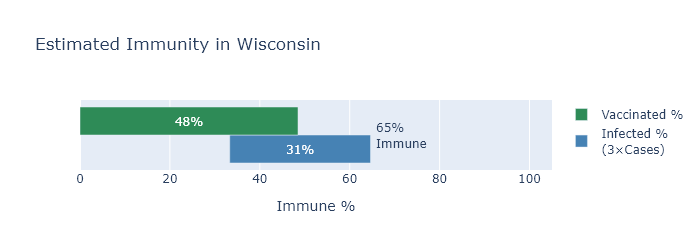
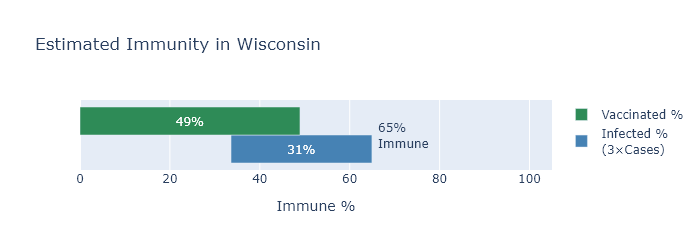
Immunity plot update

diff --git a/docs/assets/plotly/Immune-Age.html b/docs/assets/plotly/Immune-Age.html
@@ -2,6 +2,6 @@
 <head><meta charset="utf-8" /></head>
 <body>
     <div>                        <script type="text/javascript">window.PlotlyConfig = {MathJaxConfig: 'local'};</script>
-        <script src="https://cdn.plot.ly/plotly-latest.min.js"></script>                <div id="4da12900-6f28-47b1-b98f-599c25519c23" class="plotly-graph-div" style="height:550px; width:700px;"></div>            <script type="text/javascript">                                    window.PLOTLYENV=window.PLOTLYENV || {};                                    if (document.getElementById("4da12900-6f28-47b1-b98f-599c25519c23")) {                    Plotly.newPlot(                        "4da12900-6f28-47b1-b98f-599c25519c23",                        [{"alignmentgroup": "True", "base": [63.06226586288352, 45.5613222907172, 34.57848937700928, 32.96872672807596, 26.510146671164605, 20.641946858303825, 7.452176293761197], "hovertemplate": "=Est Infected %<br>Base=%{base}<br>Immune %=%{x}<br>Age group=%{y}<br>Label=%{text}<extra></extra>", "insidetextanchor": "middle", "legendgroup": "Est Infected %", "marker": {"color": "steelblue"}, "name": "Infected %<br>(3&times;Cases)", "offsetgroup": "Est Infected %", "orientation": "h", "showlegend": true, "text": ["24%", "31%", "37%", "38%", "41%", "47%", "18%"], "textposition": "inside", "type": "bar", "x": [24.324538972601125, 30.626133475668563, 36.86620056082848, 37.795827757839746, 41.143066396316364, 47.3054068419107, 17.973471836582206], "xaxis": "x", "y": ["65+", "55-64", "45-54", "35-44", "25-34", "18-24", "<18"], "yaxis": "y"}, {"alignmentgroup": "True", "base": [0.0, 0.0, 0.0, 0.0, 0.0, 0.0, 0.0], "hovertemplate": "=Vaccinated %<br>Base=%{base}<br>Immune %=%{x}<br>Age group=%{y}<br>Label=%{text}<extra></extra>", "insidetextanchor": "middle", "legendgroup": "Vaccinated %", "marker": {"color": "seagreen"}, "name": "Vaccinated %", "offsetgroup": "Vaccinated %", "orientation": "h", "showlegend": true, "text": ["83%", "66%", "55%", "53%", "45%", "39%", "9%"], "textposition": "inside", "type": "bar", "x": [83.3325162565595, 65.67505110117729, 54.77017015319209, 53.00082862565716, 45.04167147013149, 39.172798614035834, 9.08508071792891], "xaxis": "x", "y": ["65+", "55-64", "45-54", "35-44", "25-34", "18-24", "<18"], "yaxis": "y"}],                        {"annotations": [{"align": "left", "showarrow": false, "text": "25%<br>Immune", "x": 32.425648130343404, "y": "<18"}, {"align": "left", "showarrow": false, "text": "68%<br>Immune", "x": 74.94735370021453, "y": "18-24"}, {"align": "left", "showarrow": false, "text": "68%<br>Immune", "x": 74.65321306748098, "y": "25-34"}, {"align": "left", "showarrow": false, "text": "71%<br>Immune", "x": 77.7645544859157, "y": "35-44"}, {"align": "left", "showarrow": false, "text": "71%<br>Immune", "x": 78.44468993783775, "y": "45-54"}, {"align": "left", "showarrow": false, "text": "76%<br>Immune", "x": 83.18745576638577, "y": "55-64"}, {"align": "left", "showarrow": false, "text": "87%<br>Immune", "x": 94.38680483548464, "y": "65+"}], "barmode": "group", "height": 550, "legend": {"title": {"text": ""}, "tracegroupgap": 0, "traceorder": "reversed"}, "showlegend": true, "template": {"data": {"bar": [{"error_x": {"color": "#2a3f5f"}, "error_y": {"color": "#2a3f5f"}, "marker": {"line": {"color": "#E5ECF6", "width": 0.5}}, "type": "bar"}], "barpolar": [{"marker": {"line": {"color": "#E5ECF6", "width": 0.5}}, "type": "barpolar"}], "carpet": [{"aaxis": {"endlinecolor": "#2a3f5f", "gridcolor": "white", "linecolor": "white", "minorgridcolor": "white", "startlinecolor": "#2a3f5f"}, "baxis": {"endlinecolor": "#2a3f5f", "gridcolor": "white", "linecolor": "white", "minorgridcolor": "white", "startlinecolor": "#2a3f5f"}, "type": "carpet"}], "choropleth": [{"colorbar": {"outlinewidth": 0, "ticks": ""}, "type": "choropleth"}], "contour": [{"colorbar": {"outlinewidth": 0, "ticks": ""}, "colorscale": [[0.0, "#0d0887"], [0.1111111111111111, "#46039f"], [0.2222222222222222, "#7201a8"], [0.3333333333333333, "#9c179e"], [0.4444444444444444, "#bd3786"], [0.5555555555555556, "#d8576b"], [0.6666666666666666, "#ed7953"], [0.7777777777777778, "#fb9f3a"], [0.8888888888888888, "#fdca26"], [1.0, "#f0f921"]], "type": "contour"}], "contourcarpet": [{"colorbar": {"outlinewidth": 0, "ticks": ""}, "type": "contourcarpet"}], "heatmap": [{"colorbar": {"outlinewidth": 0, "ticks": ""}, "colorscale": [[0.0, "#0d0887"], [0.1111111111111111, "#46039f"], [0.2222222222222222, "#7201a8"], [0.3333333333333333, "#9c179e"], [0.4444444444444444, "#bd3786"], [0.5555555555555556, "#d8576b"], [0.6666666666666666, "#ed7953"], [0.7777777777777778, "#fb9f3a"], [0.8888888888888888, "#fdca26"], [1.0, "#f0f921"]], "type": "heatmap"}], "heatmapgl": [{"colorbar": {"outlinewidth": 0, "ticks": ""}, "colorscale": [[0.0, "#0d0887"], [0.1111111111111111, "#46039f"], [0.2222222222222222, "#7201a8"], [0.3333333333333333, "#9c179e"], [0.4444444444444444, "#bd3786"], [0.5555555555555556, "#d8576b"], [0.6666666666666666, "#ed7953"], [0.7777777777777778, "#fb9f3a"], [0.8888888888888888, "#fdca26"], [1.0, "#f0f921"]], "type": "heatmapgl"}], "histogram": [{"marker": {"colorbar": {"outlinewidth": 0, "ticks": ""}}, "type": "histogram"}], "histogram2d": [{"colorbar": {"outlinewidth": 0, "ticks": ""}, "colorscale": [[0.0, "#0d0887"], [0.1111111111111111, "#46039f"], [0.2222222222222222, "#7201a8"], [0.3333333333333333, "#9c179e"], [0.4444444444444444, "#bd3786"], [0.5555555555555556, "#d8576b"], [0.6666666666666666, "#ed7953"], [0.7777777777777778, "#fb9f3a"], [0.8888888888888888, "#fdca26"], [1.0, "#f0f921"]], "type": "histogram2d"}], "histogram2dcontour": [{"colorbar": {"outlinewidth": 0, "ticks": ""}, "colorscale": [[0.0, "#0d0887"], [0.1111111111111111, "#46039f"], [0.2222222222222222, "#7201a8"], [0.3333333333333333, "#9c179e"], [0.4444444444444444, "#bd3786"], [0.5555555555555556, "#d8576b"], [0.6666666666666666, "#ed7953"], [0.7777777777777778, "#fb9f3a"], [0.8888888888888888, "#fdca26"], [1.0, "#f0f921"]], "type": "histogram2dcontour"}], "mesh3d": [{"colorbar": {"outlinewidth": 0, "ticks": ""}, "type": "mesh3d"}], "parcoords": [{"line": {"colorbar": {"outlinewidth": 0, "ticks": ""}}, "type": "parcoords"}], "pie": [{"automargin": true, "type": "pie"}], "scatter": [{"marker": {"colorbar": {"outlinewidth": 0, "ticks": ""}}, "type": "scatter"}], "scatter3d": [{"line": {"colorbar": {"outlinewidth": 0, "ticks": ""}}, "marker": {"colorbar": {"outlinewidth": 0, "ticks": ""}}, "type": "scatter3d"}], "scattercarpet": [{"marker": {"colorbar": {"outlinewidth": 0, "ticks": ""}}, "type": "scattercarpet"}], "scattergeo": [{"marker": {"colorbar": {"outlinewidth": 0, "ticks": ""}}, "type": "scattergeo"}], "scattergl": [{"marker": {"colorbar": {"outlinewidth": 0, "ticks": ""}}, "type": "scattergl"}], "scattermapbox": [{"marker": {"colorbar": {"outlinewidth": 0, "ticks": ""}}, "type": "scattermapbox"}], "scatterpolar": [{"marker": {"colorbar": {"outlinewidth": 0, "ticks": ""}}, "type": "scatterpolar"}], "scatterpolargl": [{"marker": {"colorbar": {"outlinewidth": 0, "ticks": ""}}, "type": "scatterpolargl"}], "scatterternary": [{"marker": {"colorbar": {"outlinewidth": 0, "ticks": ""}}, "type": "scatterternary"}], "surface": [{"colorbar": {"outlinewidth": 0, "ticks": ""}, "colorscale": [[0.0, "#0d0887"], [0.1111111111111111, "#46039f"], [0.2222222222222222, "#7201a8"], [0.3333333333333333, "#9c179e"], [0.4444444444444444, "#bd3786"], [0.5555555555555556, "#d8576b"], [0.6666666666666666, "#ed7953"], [0.7777777777777778, "#fb9f3a"], [0.8888888888888888, "#fdca26"], [1.0, "#f0f921"]], "type": "surface"}], "table": [{"cells": {"fill": {"color": "#EBF0F8"}, "line": {"color": "white"}}, "header": {"fill": {"color": "#C8D4E3"}, "line": {"color": "white"}}, "type": "table"}]}, "layout": {"annotationdefaults": {"arrowcolor": "#2a3f5f", "arrowhead": 0, "arrowwidth": 1}, "coloraxis": {"colorbar": {"outlinewidth": 0, "ticks": ""}}, "colorscale": {"diverging": [[0, "#8e0152"], [0.1, "#c51b7d"], [0.2, "#de77ae"], [0.3, "#f1b6da"], [0.4, "#fde0ef"], [0.5, "#f7f7f7"], [0.6, "#e6f5d0"], [0.7, "#b8e186"], [0.8, "#7fbc41"], [0.9, "#4d9221"], [1, "#276419"]], "sequential": [[0.0, "#0d0887"], [0.1111111111111111, "#46039f"], [0.2222222222222222, "#7201a8"], [0.3333333333333333, "#9c179e"], [0.4444444444444444, "#bd3786"], [0.5555555555555556, "#d8576b"], [0.6666666666666666, "#ed7953"], [0.7777777777777778, "#fb9f3a"], [0.8888888888888888, "#fdca26"], [1.0, "#f0f921"]], "sequentialminus": [[0.0, "#0d0887"], [0.1111111111111111, "#46039f"], [0.2222222222222222, "#7201a8"], [0.3333333333333333, "#9c179e"], [0.4444444444444444, "#bd3786"], [0.5555555555555556, "#d8576b"], [0.6666666666666666, "#ed7953"], [0.7777777777777778, "#fb9f3a"], [0.8888888888888888, "#fdca26"], [1.0, "#f0f921"]]}, "colorway": ["#636efa", "#EF553B", "#00cc96", "#ab63fa", "#FFA15A", "#19d3f3", "#FF6692", "#B6E880", "#FF97FF", "#FECB52"], "font": {"color": "#2a3f5f"}, "geo": {"bgcolor": "white", "lakecolor": "white", "landcolor": "#E5ECF6", "showlakes": true, "showland": true, "subunitcolor": "white"}, "hoverlabel": {"align": "left"}, "hovermode": "closest", "mapbox": {"style": "light"}, "paper_bgcolor": "white", "plot_bgcolor": "#E5ECF6", "polar": {"angularaxis": {"gridcolor": "white", "linecolor": "white", "ticks": ""}, "bgcolor": "#E5ECF6", "radialaxis": {"gridcolor": "white", "linecolor": "white", "ticks": ""}}, "scene": {"xaxis": {"backgroundcolor": "#E5ECF6", "gridcolor": "white", "gridwidth": 2, "linecolor": "white", "showbackground": true, "ticks": "", "zerolinecolor": "white"}, "yaxis": {"backgroundcolor": "#E5ECF6", "gridcolor": "white", "gridwidth": 2, "linecolor": "white", "showbackground": true, "ticks": "", "zerolinecolor": "white"}, "zaxis": {"backgroundcolor": "#E5ECF6", "gridcolor": "white", "gridwidth": 2, "linecolor": "white", "showbackground": true, "ticks": "", "zerolinecolor": "white"}}, "shapedefaults": {"line": {"color": "#2a3f5f"}}, "ternary": {"aaxis": {"gridcolor": "white", "linecolor": "white", "ticks": ""}, "baxis": {"gridcolor": "white", "linecolor": "white", "ticks": ""}, "bgcolor": "#E5ECF6", "caxis": {"gridcolor": "white", "linecolor": "white", "ticks": ""}}, "title": {"x": 0.05}, "xaxis": {"automargin": true, "gridcolor": "white", "linecolor": "white", "ticks": "", "title": {"standoff": 15}, "zerolinecolor": "white", "zerolinewidth": 2}, "yaxis": {"automargin": true, "gridcolor": "white", "linecolor": "white", "ticks": "", "title": {"standoff": 15}, "zerolinecolor": "white", "zerolinewidth": 2}}}, "title": {"text": "Estimated Immunity by Age Group"}, "width": 700, "xaxis": {"anchor": "y", "domain": [0.0, 1.0], "range": [0, 105], "title": {"text": "Immune %"}}, "yaxis": {"anchor": "x", "domain": [0.0, 1.0], "title": {"text": "Age group"}}},                        {"responsive": true}                    )                };                            </script>        </div>
+        <script src="https://cdn.plot.ly/plotly-latest.min.js"></script>                <div id="3dae2278-7b08-4cae-aa51-e698482c78c7" class="plotly-graph-div" style="height:550px; width:700px;"></div>            <script type="text/javascript">                                    window.PLOTLYENV=window.PLOTLYENV || {};                                    if (document.getElementById("3dae2278-7b08-4cae-aa51-e698482c78c7")) {                    Plotly.newPlot(                        "3dae2278-7b08-4cae-aa51-e698482c78c7",                        [{"alignmentgroup": "True", "base": [63.24176008746374, 45.81140172485217, 34.81838094162066, 33.23805829269076, 26.765884149290162, 20.962075612423746, 7.870892562495079], "hovertemplate": "=Est Infected %<br>Base=%{base}<br>Immune %=%{x}<br>Age group=%{y}<br>Label=%{text}<extra></extra>", "insidetextanchor": "middle", "legendgroup": "Est Infected %", "marker": {"color": "steelblue"}, "name": "Infected %<br>(3&times;Cases)", "offsetgroup": "Est Infected %", "orientation": "h", "showlegend": true, "text": ["24%", "31%", "37%", "38%", "41%", "47%", "18%"], "textposition": "inside", "type": "bar", "x": [24.34601175021767, 30.65051647065246, 36.90165203887707, 37.826061396682135, 41.18294080549019, 47.33795934431536, 17.992230562951754], "xaxis": "x", "y": ["65+", "55-64", "45-54", "35-44", "25-34", "18-24", "<18"], "yaxis": "y"}, {"alignmentgroup": "True", "base": [0.0, 0.0, 0.0, 0.0, 0.0, 0.0, 0.0], "hovertemplate": "=Vaccinated %<br>Base=%{base}<br>Immune %=%{x}<br>Age group=%{y}<br>Label=%{text}<extra></extra>", "insidetextanchor": "middle", "legendgroup": "Vaccinated %", "marker": {"color": "seagreen"}, "name": "Vaccinated %", "offsetgroup": "Vaccinated %", "orientation": "h", "showlegend": true, "text": ["84%", "66%", "55%", "53%", "46%", "40%", "10%"], "textposition": "inside", "type": "bar", "x": [83.59342521198239, 66.05874967398358, 55.18112924774744, 53.45979205975063, 45.50700853773489, 39.80490568050363, 9.597740087952307], "xaxis": "x", "y": ["65+", "55-64", "45-54", "35-44", "25-34", "18-24", "<18"], "yaxis": "y"}],                        {"annotations": [{"align": "left", "showarrow": false, "text": "26%<br>Immune", "x": 32.86312312544683, "y": "<18"}, {"align": "left", "showarrow": false, "text": "68%<br>Immune", "x": 75.3000349567391, "y": "18-24"}, {"align": "left", "showarrow": false, "text": "68%<br>Immune", "x": 74.94882495478035, "y": "25-34"}, {"align": "left", "showarrow": false, "text": "71%<br>Immune", "x": 78.06411968937289, "y": "35-44"}, {"align": "left", "showarrow": false, "text": "72%<br>Immune", "x": 78.72003298049773, "y": "45-54"}, {"align": "left", "showarrow": false, "text": "76%<br>Immune", "x": 83.46191819550462, "y": "55-64"}, {"align": "left", "showarrow": false, "text": "88%<br>Immune", "x": 94.58777183768142, "y": "65+"}], "barmode": "group", "height": 550, "legend": {"title": {"text": ""}, "tracegroupgap": 0, "traceorder": "reversed"}, "showlegend": true, "template": {"data": {"bar": [{"error_x": {"color": "#2a3f5f"}, "error_y": {"color": "#2a3f5f"}, "marker": {"line": {"color": "#E5ECF6", "width": 0.5}}, "type": "bar"}], "barpolar": [{"marker": {"line": {"color": "#E5ECF6", "width": 0.5}}, "type": "barpolar"}], "carpet": [{"aaxis": {"endlinecolor": "#2a3f5f", "gridcolor": "white", "linecolor": "white", "minorgridcolor": "white", "startlinecolor": "#2a3f5f"}, "baxis": {"endlinecolor": "#2a3f5f", "gridcolor": "white", "linecolor": "white", "minorgridcolor": "white", "startlinecolor": "#2a3f5f"}, "type": "carpet"}], "choropleth": [{"colorbar": {"outlinewidth": 0, "ticks": ""}, "type": "choropleth"}], "contour": [{"colorbar": {"outlinewidth": 0, "ticks": ""}, "colorscale": [[0.0, "#0d0887"], [0.1111111111111111, "#46039f"], [0.2222222222222222, "#7201a8"], [0.3333333333333333, "#9c179e"], [0.4444444444444444, "#bd3786"], [0.5555555555555556, "#d8576b"], [0.6666666666666666, "#ed7953"], [0.7777777777777778, "#fb9f3a"], [0.8888888888888888, "#fdca26"], [1.0, "#f0f921"]], "type": "contour"}], "contourcarpet": [{"colorbar": {"outlinewidth": 0, "ticks": ""}, "type": "contourcarpet"}], "heatmap": [{"colorbar": {"outlinewidth": 0, "ticks": ""}, "colorscale": [[0.0, "#0d0887"], [0.1111111111111111, "#46039f"], [0.2222222222222222, "#7201a8"], [0.3333333333333333, "#9c179e"], [0.4444444444444444, "#bd3786"], [0.5555555555555556, "#d8576b"], [0.6666666666666666, "#ed7953"], [0.7777777777777778, "#fb9f3a"], [0.8888888888888888, "#fdca26"], [1.0, "#f0f921"]], "type": "heatmap"}], "heatmapgl": [{"colorbar": {"outlinewidth": 0, "ticks": ""}, "colorscale": [[0.0, "#0d0887"], [0.1111111111111111, "#46039f"], [0.2222222222222222, "#7201a8"], [0.3333333333333333, "#9c179e"], [0.4444444444444444, "#bd3786"], [0.5555555555555556, "#d8576b"], [0.6666666666666666, "#ed7953"], [0.7777777777777778, "#fb9f3a"], [0.8888888888888888, "#fdca26"], [1.0, "#f0f921"]], "type": "heatmapgl"}], "histogram": [{"marker": {"colorbar": {"outlinewidth": 0, "ticks": ""}}, "type": "histogram"}], "histogram2d": [{"colorbar": {"outlinewidth": 0, "ticks": ""}, "colorscale": [[0.0, "#0d0887"], [0.1111111111111111, "#46039f"], [0.2222222222222222, "#7201a8"], [0.3333333333333333, "#9c179e"], [0.4444444444444444, "#bd3786"], [0.5555555555555556, "#d8576b"], [0.6666666666666666, "#ed7953"], [0.7777777777777778, "#fb9f3a"], [0.8888888888888888, "#fdca26"], [1.0, "#f0f921"]], "type": "histogram2d"}], "histogram2dcontour": [{"colorbar": {"outlinewidth": 0, "ticks": ""}, "colorscale": [[0.0, "#0d0887"], [0.1111111111111111, "#46039f"], [0.2222222222222222, "#7201a8"], [0.3333333333333333, "#9c179e"], [0.4444444444444444, "#bd3786"], [0.5555555555555556, "#d8576b"], [0.6666666666666666, "#ed7953"], [0.7777777777777778, "#fb9f3a"], [0.8888888888888888, "#fdca26"], [1.0, "#f0f921"]], "type": "histogram2dcontour"}], "mesh3d": [{"colorbar": {"outlinewidth": 0, "ticks": ""}, "type": "mesh3d"}], "parcoords": [{"line": {"colorbar": {"outlinewidth": 0, "ticks": ""}}, "type": "parcoords"}], "pie": [{"automargin": true, "type": "pie"}], "scatter": [{"marker": {"colorbar": {"outlinewidth": 0, "ticks": ""}}, "type": "scatter"}], "scatter3d": [{"line": {"colorbar": {"outlinewidth": 0, "ticks": ""}}, "marker": {"colorbar": {"outlinewidth": 0, "ticks": ""}}, "type": "scatter3d"}], "scattercarpet": [{"marker": {"colorbar": {"outlinewidth": 0, "ticks": ""}}, "type": "scattercarpet"}], "scattergeo": [{"marker": {"colorbar": {"outlinewidth": 0, "ticks": ""}}, "type": "scattergeo"}], "scattergl": [{"marker": {"colorbar": {"outlinewidth": 0, "ticks": ""}}, "type": "scattergl"}], "scattermapbox": [{"marker": {"colorbar": {"outlinewidth": 0, "ticks": ""}}, "type": "scattermapbox"}], "scatterpolar": [{"marker": {"colorbar": {"outlinewidth": 0, "ticks": ""}}, "type": "scatterpolar"}], "scatterpolargl": [{"marker": {"colorbar": {"outlinewidth": 0, "ticks": ""}}, "type": "scatterpolargl"}], "scatterternary": [{"marker": {"colorbar": {"outlinewidth": 0, "ticks": ""}}, "type": "scatterternary"}], "surface": [{"colorbar": {"outlinewidth": 0, "ticks": ""}, "colorscale": [[0.0, "#0d0887"], [0.1111111111111111, "#46039f"], [0.2222222222222222, "#7201a8"], [0.3333333333333333, "#9c179e"], [0.4444444444444444, "#bd3786"], [0.5555555555555556, "#d8576b"], [0.6666666666666666, "#ed7953"], [0.7777777777777778, "#fb9f3a"], [0.8888888888888888, "#fdca26"], [1.0, "#f0f921"]], "type": "surface"}], "table": [{"cells": {"fill": {"color": "#EBF0F8"}, "line": {"color": "white"}}, "header": {"fill": {"color": "#C8D4E3"}, "line": {"color": "white"}}, "type": "table"}]}, "layout": {"annotationdefaults": {"arrowcolor": "#2a3f5f", "arrowhead": 0, "arrowwidth": 1}, "autotypenumbers": "strict", "coloraxis": {"colorbar": {"outlinewidth": 0, "ticks": ""}}, "colorscale": {"diverging": [[0, "#8e0152"], [0.1, "#c51b7d"], [0.2, "#de77ae"], [0.3, "#f1b6da"], [0.4, "#fde0ef"], [0.5, "#f7f7f7"], [0.6, "#e6f5d0"], [0.7, "#b8e186"], [0.8, "#7fbc41"], [0.9, "#4d9221"], [1, "#276419"]], "sequential": [[0.0, "#0d0887"], [0.1111111111111111, "#46039f"], [0.2222222222222222, "#7201a8"], [0.3333333333333333, "#9c179e"], [0.4444444444444444, "#bd3786"], [0.5555555555555556, "#d8576b"], [0.6666666666666666, "#ed7953"], [0.7777777777777778, "#fb9f3a"], [0.8888888888888888, "#fdca26"], [1.0, "#f0f921"]], "sequentialminus": [[0.0, "#0d0887"], [0.1111111111111111, "#46039f"], [0.2222222222222222, "#7201a8"], [0.3333333333333333, "#9c179e"], [0.4444444444444444, "#bd3786"], [0.5555555555555556, "#d8576b"], [0.6666666666666666, "#ed7953"], [0.7777777777777778, "#fb9f3a"], [0.8888888888888888, "#fdca26"], [1.0, "#f0f921"]]}, "colorway": ["#636efa", "#EF553B", "#00cc96", "#ab63fa", "#FFA15A", "#19d3f3", "#FF6692", "#B6E880", "#FF97FF", "#FECB52"], "font": {"color": "#2a3f5f"}, "geo": {"bgcolor": "white", "lakecolor": "white", "landcolor": "#E5ECF6", "showlakes": true, "showland": true, "subunitcolor": "white"}, "hoverlabel": {"align": "left"}, "hovermode": "closest", "mapbox": {"style": "light"}, "paper_bgcolor": "white", "plot_bgcolor": "#E5ECF6", "polar": {"angularaxis": {"gridcolor": "white", "linecolor": "white", "ticks": ""}, "bgcolor": "#E5ECF6", "radialaxis": {"gridcolor": "white", "linecolor": "white", "ticks": ""}}, "scene": {"xaxis": {"backgroundcolor": "#E5ECF6", "gridcolor": "white", "gridwidth": 2, "linecolor": "white", "showbackground": true, "ticks": "", "zerolinecolor": "white"}, "yaxis": {"backgroundcolor": "#E5ECF6", "gridcolor": "white", "gridwidth": 2, "linecolor": "white", "showbackground": true, "ticks": "", "zerolinecolor": "white"}, "zaxis": {"backgroundcolor": "#E5ECF6", "gridcolor": "white", "gridwidth": 2, "linecolor": "white", "showbackground": true, "ticks": "", "zerolinecolor": "white"}}, "shapedefaults": {"line": {"color": "#2a3f5f"}}, "ternary": {"aaxis": {"gridcolor": "white", "linecolor": "white", "ticks": ""}, "baxis": {"gridcolor": "white", "linecolor": "white", "ticks": ""}, "bgcolor": "#E5ECF6", "caxis": {"gridcolor": "white", "linecolor": "white", "ticks": ""}}, "title": {"x": 0.05}, "xaxis": {"automargin": true, "gridcolor": "white", "linecolor": "white", "ticks": "", "title": {"standoff": 15}, "zerolinecolor": "white", "zerolinewidth": 2}, "yaxis": {"automargin": true, "gridcolor": "white", "linecolor": "white", "ticks": "", "title": {"standoff": 15}, "zerolinecolor": "white", "zerolinewidth": 2}}}, "title": {"text": "Estimated Immunity by Age Group"}, "width": 700, "xaxis": {"anchor": "y", "domain": [0.0, 1.0], "range": [0, 105], "title": {"text": "Immune %"}}, "yaxis": {"anchor": "x", "domain": [0.0, 1.0], "title": {"text": "Age group"}}},                        {"responsive": true}                    )                };                            </script>        </div>
 </body>
 </html>

diff --git a/docs/assets/plotly/Immune-Total.html b/docs/assets/plotly/Immune-Total.html
@@ -2,6 +2,6 @@
 <head><meta charset="utf-8" /></head>
 <body>
     <div>                        <script type="text/javascript">window.PlotlyConfig = {MathJaxConfig: 'local'};</script>
-        <script src="https://cdn.plot.ly/plotly-latest.min.js"></script>                <div id="bbd7f644-e8fe-4099-8760-fd431319e03b" class="plotly-graph-div" style="height:250px; width:700px;"></div>            <script type="text/javascript">                                    window.PLOTLYENV=window.PLOTLYENV || {};                                    if (document.getElementById("bbd7f644-e8fe-4099-8760-fd431319e03b")) {                    Plotly.newPlot(                        "bbd7f644-e8fe-4099-8760-fd431319e03b",                        [{"alignmentgroup": "True", "base": [33.31022426573347], "hovertemplate": "=Est Infected %<br>Base=%{base}<br>Immune %=%{x}<br>Age group=%{y}<br>Label=%{text}<extra></extra>", "insidetextanchor": "middle", "legendgroup": "Est Infected %", "marker": {"color": "steelblue"}, "name": "Infected %<br>(3&times;Cases)", "offsetgroup": "Est Infected %", "orientation": "h", "showlegend": true, "text": ["31%"], "textposition": "inside", "type": "bar", "x": [31.316851337430357], "xaxis": "x", "y": [" "], "yaxis": "y"}, {"alignmentgroup": "True", "base": [0.0], "hovertemplate": "=Vaccinated %<br>Base=%{base}<br>Immune %=%{x}<br>Age group=%{y}<br>Label=%{text}<extra></extra>", "insidetextanchor": "middle", "legendgroup": "Vaccinated %", "marker": {"color": "seagreen"}, "name": "Vaccinated %", "offsetgroup": "Vaccinated %", "orientation": "h", "showlegend": true, "text": ["48%"], "textposition": "inside", "type": "bar", "x": [48.498394314130486], "xaxis": "x", "y": [" "], "yaxis": "y"}],                        {"annotations": [{"align": "left", "showarrow": false, "text": "65%<br>Immune", "x": 71.62707560316383, "y": " "}], "barmode": "group", "height": 250, "legend": {"title": {"text": ""}, "tracegroupgap": 0, "traceorder": "reversed"}, "showlegend": true, "template": {"data": {"bar": [{"error_x": {"color": "#2a3f5f"}, "error_y": {"color": "#2a3f5f"}, "marker": {"line": {"color": "#E5ECF6", "width": 0.5}}, "type": "bar"}], "barpolar": [{"marker": {"line": {"color": "#E5ECF6", "width": 0.5}}, "type": "barpolar"}], "carpet": [{"aaxis": {"endlinecolor": "#2a3f5f", "gridcolor": "white", "linecolor": "white", "minorgridcolor": "white", "startlinecolor": "#2a3f5f"}, "baxis": {"endlinecolor": "#2a3f5f", "gridcolor": "white", "linecolor": "white", "minorgridcolor": "white", "startlinecolor": "#2a3f5f"}, "type": "carpet"}], "choropleth": [{"colorbar": {"outlinewidth": 0, "ticks": ""}, "type": "choropleth"}], "contour": [{"colorbar": {"outlinewidth": 0, "ticks": ""}, "colorscale": [[0.0, "#0d0887"], [0.1111111111111111, "#46039f"], [0.2222222222222222, "#7201a8"], [0.3333333333333333, "#9c179e"], [0.4444444444444444, "#bd3786"], [0.5555555555555556, "#d8576b"], [0.6666666666666666, "#ed7953"], [0.7777777777777778, "#fb9f3a"], [0.8888888888888888, "#fdca26"], [1.0, "#f0f921"]], "type": "contour"}], "contourcarpet": [{"colorbar": {"outlinewidth": 0, "ticks": ""}, "type": "contourcarpet"}], "heatmap": [{"colorbar": {"outlinewidth": 0, "ticks": ""}, "colorscale": [[0.0, "#0d0887"], [0.1111111111111111, "#46039f"], [0.2222222222222222, "#7201a8"], [0.3333333333333333, "#9c179e"], [0.4444444444444444, "#bd3786"], [0.5555555555555556, "#d8576b"], [0.6666666666666666, "#ed7953"], [0.7777777777777778, "#fb9f3a"], [0.8888888888888888, "#fdca26"], [1.0, "#f0f921"]], "type": "heatmap"}], "heatmapgl": [{"colorbar": {"outlinewidth": 0, "ticks": ""}, "colorscale": [[0.0, "#0d0887"], [0.1111111111111111, "#46039f"], [0.2222222222222222, "#7201a8"], [0.3333333333333333, "#9c179e"], [0.4444444444444444, "#bd3786"], [0.5555555555555556, "#d8576b"], [0.6666666666666666, "#ed7953"], [0.7777777777777778, "#fb9f3a"], [0.8888888888888888, "#fdca26"], [1.0, "#f0f921"]], "type": "heatmapgl"}], "histogram": [{"marker": {"colorbar": {"outlinewidth": 0, "ticks": ""}}, "type": "histogram"}], "histogram2d": [{"colorbar": {"outlinewidth": 0, "ticks": ""}, "colorscale": [[0.0, "#0d0887"], [0.1111111111111111, "#46039f"], [0.2222222222222222, "#7201a8"], [0.3333333333333333, "#9c179e"], [0.4444444444444444, "#bd3786"], [0.5555555555555556, "#d8576b"], [0.6666666666666666, "#ed7953"], [0.7777777777777778, "#fb9f3a"], [0.8888888888888888, "#fdca26"], [1.0, "#f0f921"]], "type": "histogram2d"}], "histogram2dcontour": [{"colorbar": {"outlinewidth": 0, "ticks": ""}, "colorscale": [[0.0, "#0d0887"], [0.1111111111111111, "#46039f"], [0.2222222222222222, "#7201a8"], [0.3333333333333333, "#9c179e"], [0.4444444444444444, "#bd3786"], [0.5555555555555556, "#d8576b"], [0.6666666666666666, "#ed7953"], [0.7777777777777778, "#fb9f3a"], [0.8888888888888888, "#fdca26"], [1.0, "#f0f921"]], "type": "histogram2dcontour"}], "mesh3d": [{"colorbar": {"outlinewidth": 0, "ticks": ""}, "type": "mesh3d"}], "parcoords": [{"line": {"colorbar": {"outlinewidth": 0, "ticks": ""}}, "type": "parcoords"}], "pie": [{"automargin": true, "type": "pie"}], "scatter": [{"marker": {"colorbar": {"outlinewidth": 0, "ticks": ""}}, "type": "scatter"}], "scatter3d": [{"line": {"colorbar": {"outlinewidth": 0, "ticks": ""}}, "marker": {"colorbar": {"outlinewidth": 0, "ticks": ""}}, "type": "scatter3d"}], "scattercarpet": [{"marker": {"colorbar": {"outlinewidth": 0, "ticks": ""}}, "type": "scattercarpet"}], "scattergeo": [{"marker": {"colorbar": {"outlinewidth": 0, "ticks": ""}}, "type": "scattergeo"}], "scattergl": [{"marker": {"colorbar": {"outlinewidth": 0, "ticks": ""}}, "type": "scattergl"}], "scattermapbox": [{"marker": {"colorbar": {"outlinewidth": 0, "ticks": ""}}, "type": "scattermapbox"}], "scatterpolar": [{"marker": {"colorbar": {"outlinewidth": 0, "ticks": ""}}, "type": "scatterpolar"}], "scatterpolargl": [{"marker": {"colorbar": {"outlinewidth": 0, "ticks": ""}}, "type": "scatterpolargl"}], "scatterternary": [{"marker": {"colorbar": {"outlinewidth": 0, "ticks": ""}}, "type": "scatterternary"}], "surface": [{"colorbar": {"outlinewidth": 0, "ticks": ""}, "colorscale": [[0.0, "#0d0887"], [0.1111111111111111, "#46039f"], [0.2222222222222222, "#7201a8"], [0.3333333333333333, "#9c179e"], [0.4444444444444444, "#bd3786"], [0.5555555555555556, "#d8576b"], [0.6666666666666666, "#ed7953"], [0.7777777777777778, "#fb9f3a"], [0.8888888888888888, "#fdca26"], [1.0, "#f0f921"]], "type": "surface"}], "table": [{"cells": {"fill": {"color": "#EBF0F8"}, "line": {"color": "white"}}, "header": {"fill": {"color": "#C8D4E3"}, "line": {"color": "white"}}, "type": "table"}]}, "layout": {"annotationdefaults": {"arrowcolor": "#2a3f5f", "arrowhead": 0, "arrowwidth": 1}, "coloraxis": {"colorbar": {"outlinewidth": 0, "ticks": ""}}, "colorscale": {"diverging": [[0, "#8e0152"], [0.1, "#c51b7d"], [0.2, "#de77ae"], [0.3, "#f1b6da"], [0.4, "#fde0ef"], [0.5, "#f7f7f7"], [0.6, "#e6f5d0"], [0.7, "#b8e186"], [0.8, "#7fbc41"], [0.9, "#4d9221"], [1, "#276419"]], "sequential": [[0.0, "#0d0887"], [0.1111111111111111, "#46039f"], [0.2222222222222222, "#7201a8"], [0.3333333333333333, "#9c179e"], [0.4444444444444444, "#bd3786"], [0.5555555555555556, "#d8576b"], [0.6666666666666666, "#ed7953"], [0.7777777777777778, "#fb9f3a"], [0.8888888888888888, "#fdca26"], [1.0, "#f0f921"]], "sequentialminus": [[0.0, "#0d0887"], [0.1111111111111111, "#46039f"], [0.2222222222222222, "#7201a8"], [0.3333333333333333, "#9c179e"], [0.4444444444444444, "#bd3786"], [0.5555555555555556, "#d8576b"], [0.6666666666666666, "#ed7953"], [0.7777777777777778, "#fb9f3a"], [0.8888888888888888, "#fdca26"], [1.0, "#f0f921"]]}, "colorway": ["#636efa", "#EF553B", "#00cc96", "#ab63fa", "#FFA15A", "#19d3f3", "#FF6692", "#B6E880", "#FF97FF", "#FECB52"], "font": {"color": "#2a3f5f"}, "geo": {"bgcolor": "white", "lakecolor": "white", "landcolor": "#E5ECF6", "showlakes": true, "showland": true, "subunitcolor": "white"}, "hoverlabel": {"align": "left"}, "hovermode": "closest", "mapbox": {"style": "light"}, "paper_bgcolor": "white", "plot_bgcolor": "#E5ECF6", "polar": {"angularaxis": {"gridcolor": "white", "linecolor": "white", "ticks": ""}, "bgcolor": "#E5ECF6", "radialaxis": {"gridcolor": "white", "linecolor": "white", "ticks": ""}}, "scene": {"xaxis": {"backgroundcolor": "#E5ECF6", "gridcolor": "white", "gridwidth": 2, "linecolor": "white", "showbackground": true, "ticks": "", "zerolinecolor": "white"}, "yaxis": {"backgroundcolor": "#E5ECF6", "gridcolor": "white", "gridwidth": 2, "linecolor": "white", "showbackground": true, "ticks": "", "zerolinecolor": "white"}, "zaxis": {"backgroundcolor": "#E5ECF6", "gridcolor": "white", "gridwidth": 2, "linecolor": "white", "showbackground": true, "ticks": "", "zerolinecolor": "white"}}, "shapedefaults": {"line": {"color": "#2a3f5f"}}, "ternary": {"aaxis": {"gridcolor": "white", "linecolor": "white", "ticks": ""}, "baxis": {"gridcolor": "white", "linecolor": "white", "ticks": ""}, "bgcolor": "#E5ECF6", "caxis": {"gridcolor": "white", "linecolor": "white", "ticks": ""}}, "title": {"x": 0.05}, "xaxis": {"automargin": true, "gridcolor": "white", "linecolor": "white", "ticks": "", "title": {"standoff": 15}, "zerolinecolor": "white", "zerolinewidth": 2}, "yaxis": {"automargin": true, "gridcolor": "white", "linecolor": "white", "ticks": "", "title": {"standoff": 15}, "zerolinecolor": "white", "zerolinewidth": 2}}}, "title": {"text": "Estimated Immunity in Wisconsin"}, "width": 700, "xaxis": {"anchor": "y", "domain": [0.0, 1.0], "range": [0, 105], "title": {"text": "Immune %"}}, "yaxis": {"anchor": "x", "domain": [0.0, 1.0], "title": {"text": ""}}},                        {"responsive": true}                    )                };                            </script>        </div>
+        <script src="https://cdn.plot.ly/plotly-latest.min.js"></script>                <div id="30cdfe77-88c7-481a-868f-cd0466f115fa" class="plotly-graph-div" style="height:250px; width:700px;"></div>            <script type="text/javascript">                                    window.PLOTLYENV=window.PLOTLYENV || {};                                    if (document.getElementById("30cdfe77-88c7-481a-868f-cd0466f115fa")) {                    Plotly.newPlot(                        "30cdfe77-88c7-481a-868f-cd0466f115fa",                        [{"alignmentgroup": "True", "base": [33.596458530068595], "hovertemplate": "=Est Infected %<br>Base=%{base}<br>Immune %=%{x}<br>Age group=%{y}<br>Label=%{text}<extra></extra>", "insidetextanchor": "middle", "legendgroup": "Est Infected %", "marker": {"color": "steelblue"}, "name": "Infected %<br>(3&times;Cases)", "offsetgroup": "Est Infected %", "orientation": "h", "showlegend": true, "text": ["31%"], "textposition": "inside", "type": "bar", "x": [31.344314078957353], "xaxis": "x", "y": [" "], "yaxis": "y"}, {"alignmentgroup": "True", "base": [0.0], "hovertemplate": "=Vaccinated %<br>Base=%{base}<br>Immune %=%{x}<br>Age group=%{y}<br>Label=%{text}<extra></extra>", "insidetextanchor": "middle", "legendgroup": "Vaccinated %", "marker": {"color": "seagreen"}, "name": "Vaccinated %", "offsetgroup": "Vaccinated %", "orientation": "h", "showlegend": true, "text": ["49%"], "textposition": "inside", "type": "bar", "x": [48.93470668795902], "xaxis": "x", "y": [" "], "yaxis": "y"}],                        {"annotations": [{"align": "left", "showarrow": false, "text": "65%<br>Immune", "x": 71.94077260902596, "y": " "}], "barmode": "group", "height": 250, "legend": {"title": {"text": ""}, "tracegroupgap": 0, "traceorder": "reversed"}, "showlegend": true, "template": {"data": {"bar": [{"error_x": {"color": "#2a3f5f"}, "error_y": {"color": "#2a3f5f"}, "marker": {"line": {"color": "#E5ECF6", "width": 0.5}}, "type": "bar"}], "barpolar": [{"marker": {"line": {"color": "#E5ECF6", "width": 0.5}}, "type": "barpolar"}], "carpet": [{"aaxis": {"endlinecolor": "#2a3f5f", "gridcolor": "white", "linecolor": "white", "minorgridcolor": "white", "startlinecolor": "#2a3f5f"}, "baxis": {"endlinecolor": "#2a3f5f", "gridcolor": "white", "linecolor": "white", "minorgridcolor": "white", "startlinecolor": "#2a3f5f"}, "type": "carpet"}], "choropleth": [{"colorbar": {"outlinewidth": 0, "ticks": ""}, "type": "choropleth"}], "contour": [{"colorbar": {"outlinewidth": 0, "ticks": ""}, "colorscale": [[0.0, "#0d0887"], [0.1111111111111111, "#46039f"], [0.2222222222222222, "#7201a8"], [0.3333333333333333, "#9c179e"], [0.4444444444444444, "#bd3786"], [0.5555555555555556, "#d8576b"], [0.6666666666666666, "#ed7953"], [0.7777777777777778, "#fb9f3a"], [0.8888888888888888, "#fdca26"], [1.0, "#f0f921"]], "type": "contour"}], "contourcarpet": [{"colorbar": {"outlinewidth": 0, "ticks": ""}, "type": "contourcarpet"}], "heatmap": [{"colorbar": {"outlinewidth": 0, "ticks": ""}, "colorscale": [[0.0, "#0d0887"], [0.1111111111111111, "#46039f"], [0.2222222222222222, "#7201a8"], [0.3333333333333333, "#9c179e"], [0.4444444444444444, "#bd3786"], [0.5555555555555556, "#d8576b"], [0.6666666666666666, "#ed7953"], [0.7777777777777778, "#fb9f3a"], [0.8888888888888888, "#fdca26"], [1.0, "#f0f921"]], "type": "heatmap"}], "heatmapgl": [{"colorbar": {"outlinewidth": 0, "ticks": ""}, "colorscale": [[0.0, "#0d0887"], [0.1111111111111111, "#46039f"], [0.2222222222222222, "#7201a8"], [0.3333333333333333, "#9c179e"], [0.4444444444444444, "#bd3786"], [0.5555555555555556, "#d8576b"], [0.6666666666666666, "#ed7953"], [0.7777777777777778, "#fb9f3a"], [0.8888888888888888, "#fdca26"], [1.0, "#f0f921"]], "type": "heatmapgl"}], "histogram": [{"marker": {"colorbar": {"outlinewidth": 0, "ticks": ""}}, "type": "histogram"}], "histogram2d": [{"colorbar": {"outlinewidth": 0, "ticks": ""}, "colorscale": [[0.0, "#0d0887"], [0.1111111111111111, "#46039f"], [0.2222222222222222, "#7201a8"], [0.3333333333333333, "#9c179e"], [0.4444444444444444, "#bd3786"], [0.5555555555555556, "#d8576b"], [0.6666666666666666, "#ed7953"], [0.7777777777777778, "#fb9f3a"], [0.8888888888888888, "#fdca26"], [1.0, "#f0f921"]], "type": "histogram2d"}], "histogram2dcontour": [{"colorbar": {"outlinewidth": 0, "ticks": ""}, "colorscale": [[0.0, "#0d0887"], [0.1111111111111111, "#46039f"], [0.2222222222222222, "#7201a8"], [0.3333333333333333, "#9c179e"], [0.4444444444444444, "#bd3786"], [0.5555555555555556, "#d8576b"], [0.6666666666666666, "#ed7953"], [0.7777777777777778, "#fb9f3a"], [0.8888888888888888, "#fdca26"], [1.0, "#f0f921"]], "type": "histogram2dcontour"}], "mesh3d": [{"colorbar": {"outlinewidth": 0, "ticks": ""}, "type": "mesh3d"}], "parcoords": [{"line": {"colorbar": {"outlinewidth": 0, "ticks": ""}}, "type": "parcoords"}], "pie": [{"automargin": true, "type": "pie"}], "scatter": [{"marker": {"colorbar": {"outlinewidth": 0, "ticks": ""}}, "type": "scatter"}], "scatter3d": [{"line": {"colorbar": {"outlinewidth": 0, "ticks": ""}}, "marker": {"colorbar": {"outlinewidth": 0, "ticks": ""}}, "type": "scatter3d"}], "scattercarpet": [{"marker": {"colorbar": {"outlinewidth": 0, "ticks": ""}}, "type": "scattercarpet"}], "scattergeo": [{"marker": {"colorbar": {"outlinewidth": 0, "ticks": ""}}, "type": "scattergeo"}], "scattergl": [{"marker": {"colorbar": {"outlinewidth": 0, "ticks": ""}}, "type": "scattergl"}], "scattermapbox": [{"marker": {"colorbar": {"outlinewidth": 0, "ticks": ""}}, "type": "scattermapbox"}], "scatterpolar": [{"marker": {"colorbar": {"outlinewidth": 0, "ticks": ""}}, "type": "scatterpolar"}], "scatterpolargl": [{"marker": {"colorbar": {"outlinewidth": 0, "ticks": ""}}, "type": "scatterpolargl"}], "scatterternary": [{"marker": {"colorbar": {"outlinewidth": 0, "ticks": ""}}, "type": "scatterternary"}], "surface": [{"colorbar": {"outlinewidth": 0, "ticks": ""}, "colorscale": [[0.0, "#0d0887"], [0.1111111111111111, "#46039f"], [0.2222222222222222, "#7201a8"], [0.3333333333333333, "#9c179e"], [0.4444444444444444, "#bd3786"], [0.5555555555555556, "#d8576b"], [0.6666666666666666, "#ed7953"], [0.7777777777777778, "#fb9f3a"], [0.8888888888888888, "#fdca26"], [1.0, "#f0f921"]], "type": "surface"}], "table": [{"cells": {"fill": {"color": "#EBF0F8"}, "line": {"color": "white"}}, "header": {"fill": {"color": "#C8D4E3"}, "line": {"color": "white"}}, "type": "table"}]}, "layout": {"annotationdefaults": {"arrowcolor": "#2a3f5f", "arrowhead": 0, "arrowwidth": 1}, "autotypenumbers": "strict", "coloraxis": {"colorbar": {"outlinewidth": 0, "ticks": ""}}, "colorscale": {"diverging": [[0, "#8e0152"], [0.1, "#c51b7d"], [0.2, "#de77ae"], [0.3, "#f1b6da"], [0.4, "#fde0ef"], [0.5, "#f7f7f7"], [0.6, "#e6f5d0"], [0.7, "#b8e186"], [0.8, "#7fbc41"], [0.9, "#4d9221"], [1, "#276419"]], "sequential": [[0.0, "#0d0887"], [0.1111111111111111, "#46039f"], [0.2222222222222222, "#7201a8"], [0.3333333333333333, "#9c179e"], [0.4444444444444444, "#bd3786"], [0.5555555555555556, "#d8576b"], [0.6666666666666666, "#ed7953"], [0.7777777777777778, "#fb9f3a"], [0.8888888888888888, "#fdca26"], [1.0, "#f0f921"]], "sequentialminus": [[0.0, "#0d0887"], [0.1111111111111111, "#46039f"], [0.2222222222222222, "#7201a8"], [0.3333333333333333, "#9c179e"], [0.4444444444444444, "#bd3786"], [0.5555555555555556, "#d8576b"], [0.6666666666666666, "#ed7953"], [0.7777777777777778, "#fb9f3a"], [0.8888888888888888, "#fdca26"], [1.0, "#f0f921"]]}, "colorway": ["#636efa", "#EF553B", "#00cc96", "#ab63fa", "#FFA15A", "#19d3f3", "#FF6692", "#B6E880", "#FF97FF", "#FECB52"], "font": {"color": "#2a3f5f"}, "geo": {"bgcolor": "white", "lakecolor": "white", "landcolor": "#E5ECF6", "showlakes": true, "showland": true, "subunitcolor": "white"}, "hoverlabel": {"align": "left"}, "hovermode": "closest", "mapbox": {"style": "light"}, "paper_bgcolor": "white", "plot_bgcolor": "#E5ECF6", "polar": {"angularaxis": {"gridcolor": "white", "linecolor": "white", "ticks": ""}, "bgcolor": "#E5ECF6", "radialaxis": {"gridcolor": "white", "linecolor": "white", "ticks": ""}}, "scene": {"xaxis": {"backgroundcolor": "#E5ECF6", "gridcolor": "white", "gridwidth": 2, "linecolor": "white", "showbackground": true, "ticks": "", "zerolinecolor": "white"}, "yaxis": {"backgroundcolor": "#E5ECF6", "gridcolor": "white", "gridwidth": 2, "linecolor": "white", "showbackground": true, "ticks": "", "zerolinecolor": "white"}, "zaxis": {"backgroundcolor": "#E5ECF6", "gridcolor": "white", "gridwidth": 2, "linecolor": "white", "showbackground": true, "ticks": "", "zerolinecolor": "white"}}, "shapedefaults": {"line": {"color": "#2a3f5f"}}, "ternary": {"aaxis": {"gridcolor": "white", "linecolor": "white", "ticks": ""}, "baxis": {"gridcolor": "white", "linecolor": "white", "ticks": ""}, "bgcolor": "#E5ECF6", "caxis": {"gridcolor": "white", "linecolor": "white", "ticks": ""}}, "title": {"x": 0.05}, "xaxis": {"automargin": true, "gridcolor": "white", "linecolor": "white", "ticks": "", "title": {"standoff": 15}, "zerolinecolor": "white", "zerolinewidth": 2}, "yaxis": {"automargin": true, "gridcolor": "white", "linecolor": "white", "ticks": "", "title": {"standoff": 15}, "zerolinecolor": "white", "zerolinewidth": 2}}}, "title": {"text": "Estimated Immunity in Wisconsin"}, "width": 700, "xaxis": {"anchor": "y", "domain": [0.0, 1.0], "range": [0, 105], "title": {"text": "Immune %"}}, "yaxis": {"anchor": "x", "domain": [0.0, 1.0], "title": {"text": ""}}},                        {"responsive": true}                    )                };                            </script>        </div>
 </body>
 </html>
